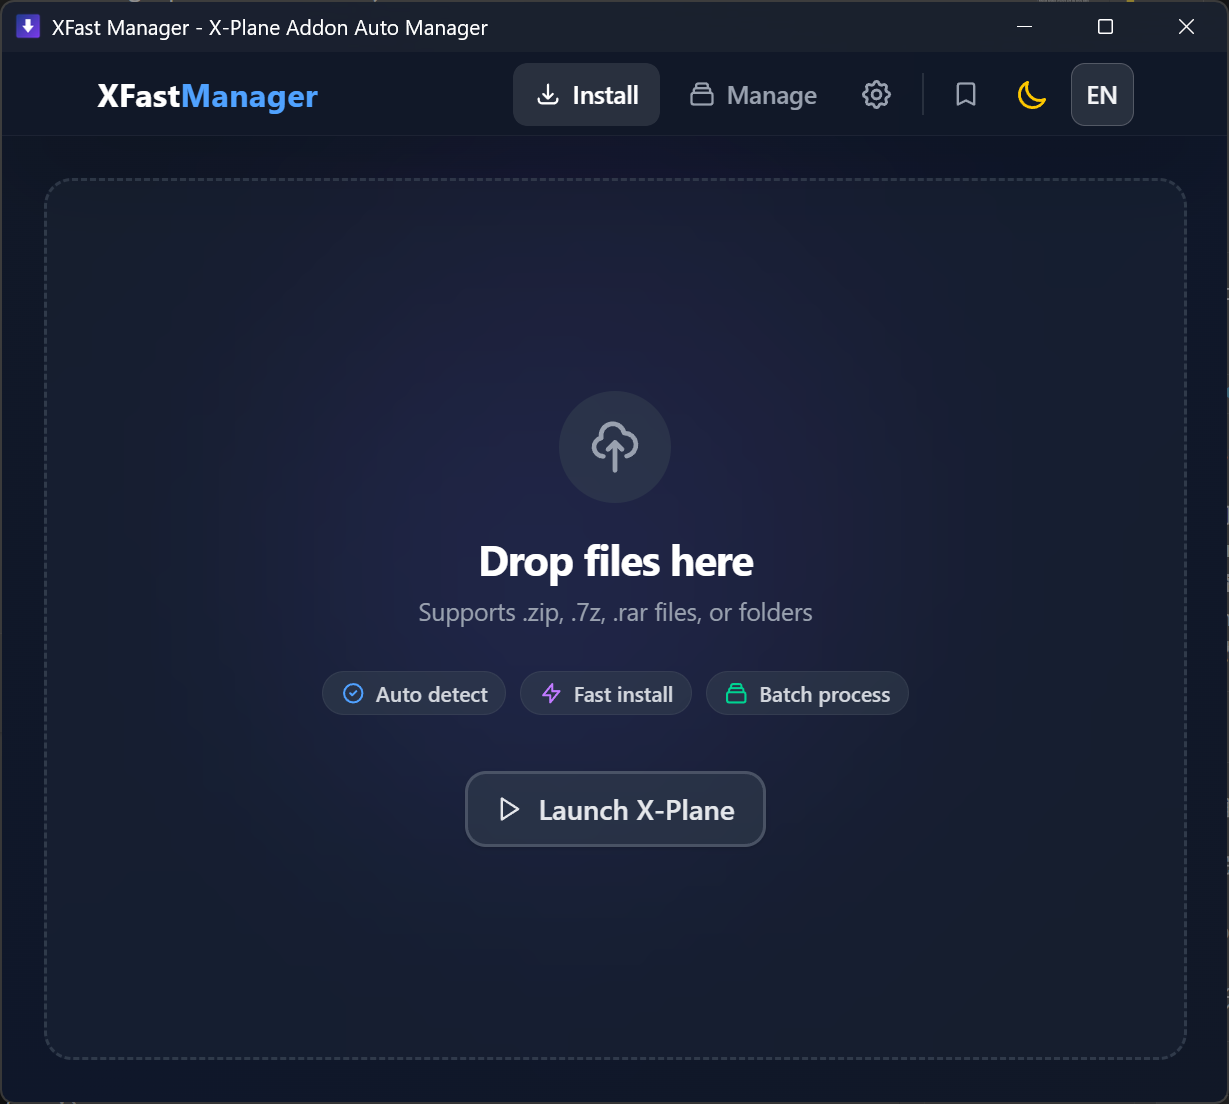
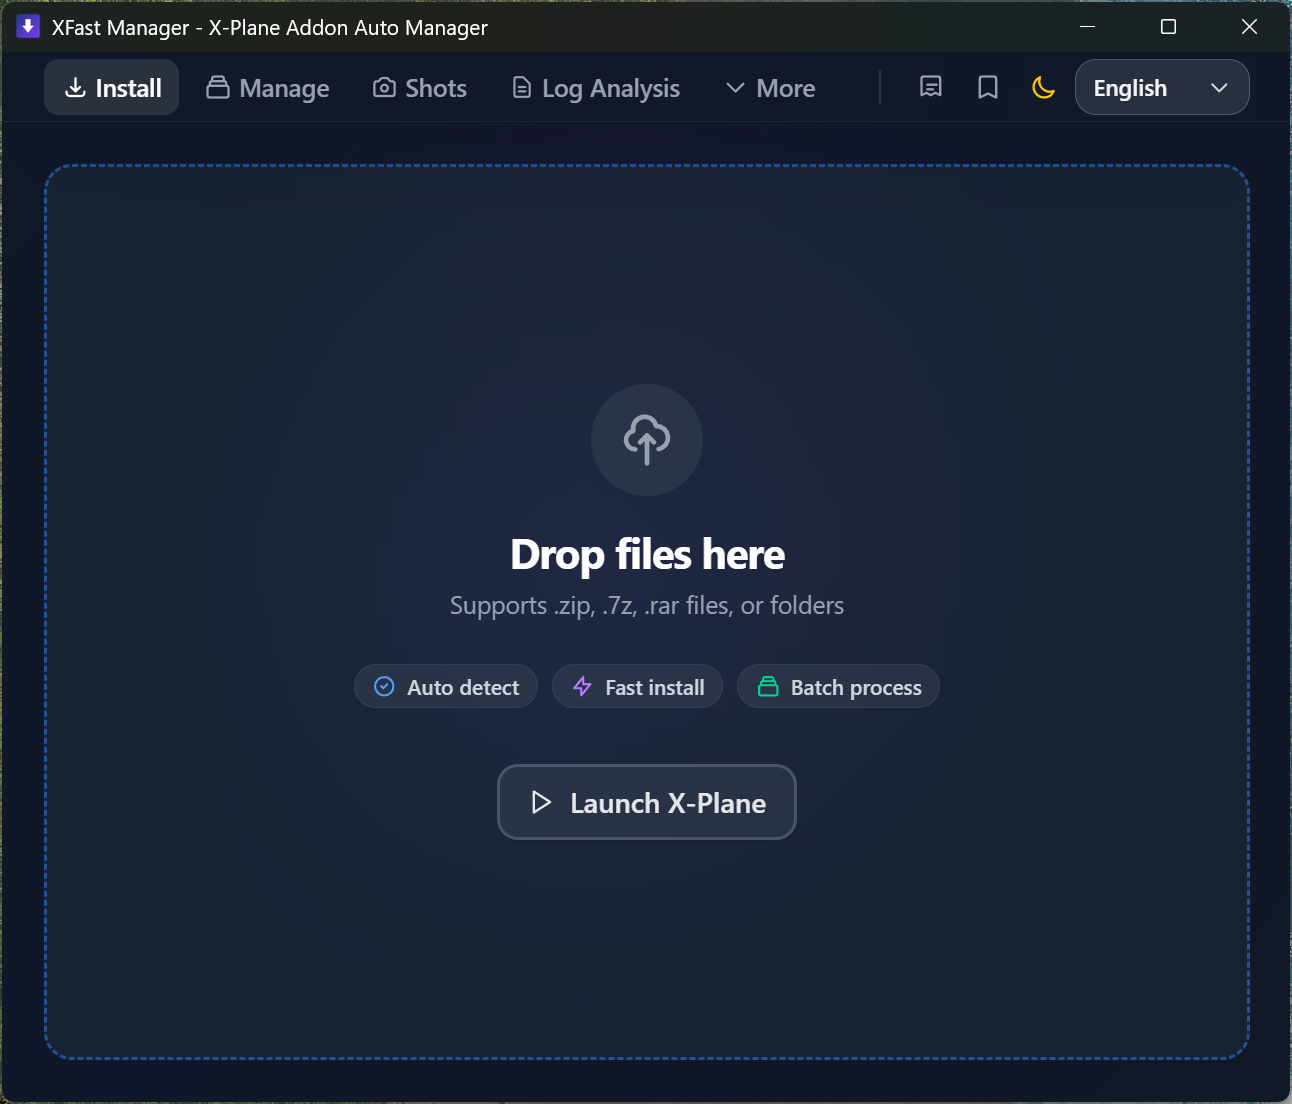
Refactor code structure for improved readability and maintainability

diff --git a/src-tauri/src/management/management_index.rs b/src-tauri/src/management/management_index.rs
@@ -575,8 +575,16 @@ fn scan_single_aircraft_folder(
 }
 
 fn rescan_aircraft_folder_entry(xplane_path: &Path, folder_name: &str) -> Result<AircraftInfo> {
+    // Validate path (existence + traversal check). The canonical path it
+    // returns is intentionally discarded: scan_single_aircraft_folder derives
+    // the relative folder_name via strip_prefix against a non-canonical base,
+    // and on Windows a canonical path carries a `\\?\` prefix that breaks the
+    // match — the fallback would then return the full absolute path as
+    // folder_name, causing duplicate entries in the UI list after a toggle.
+    resolve_management_path(xplane_path, "aircraft", folder_name)?;
+
     let aircraft_path = xplane_path.join("Aircraft");
-    let folder_path = resolve_management_path(xplane_path, "aircraft", folder_name)?;
+    let folder_path = aircraft_path.join(folder_name);
     let display_name = folder_path
         .file_name()
         .and_then(|name| name.to_str())
